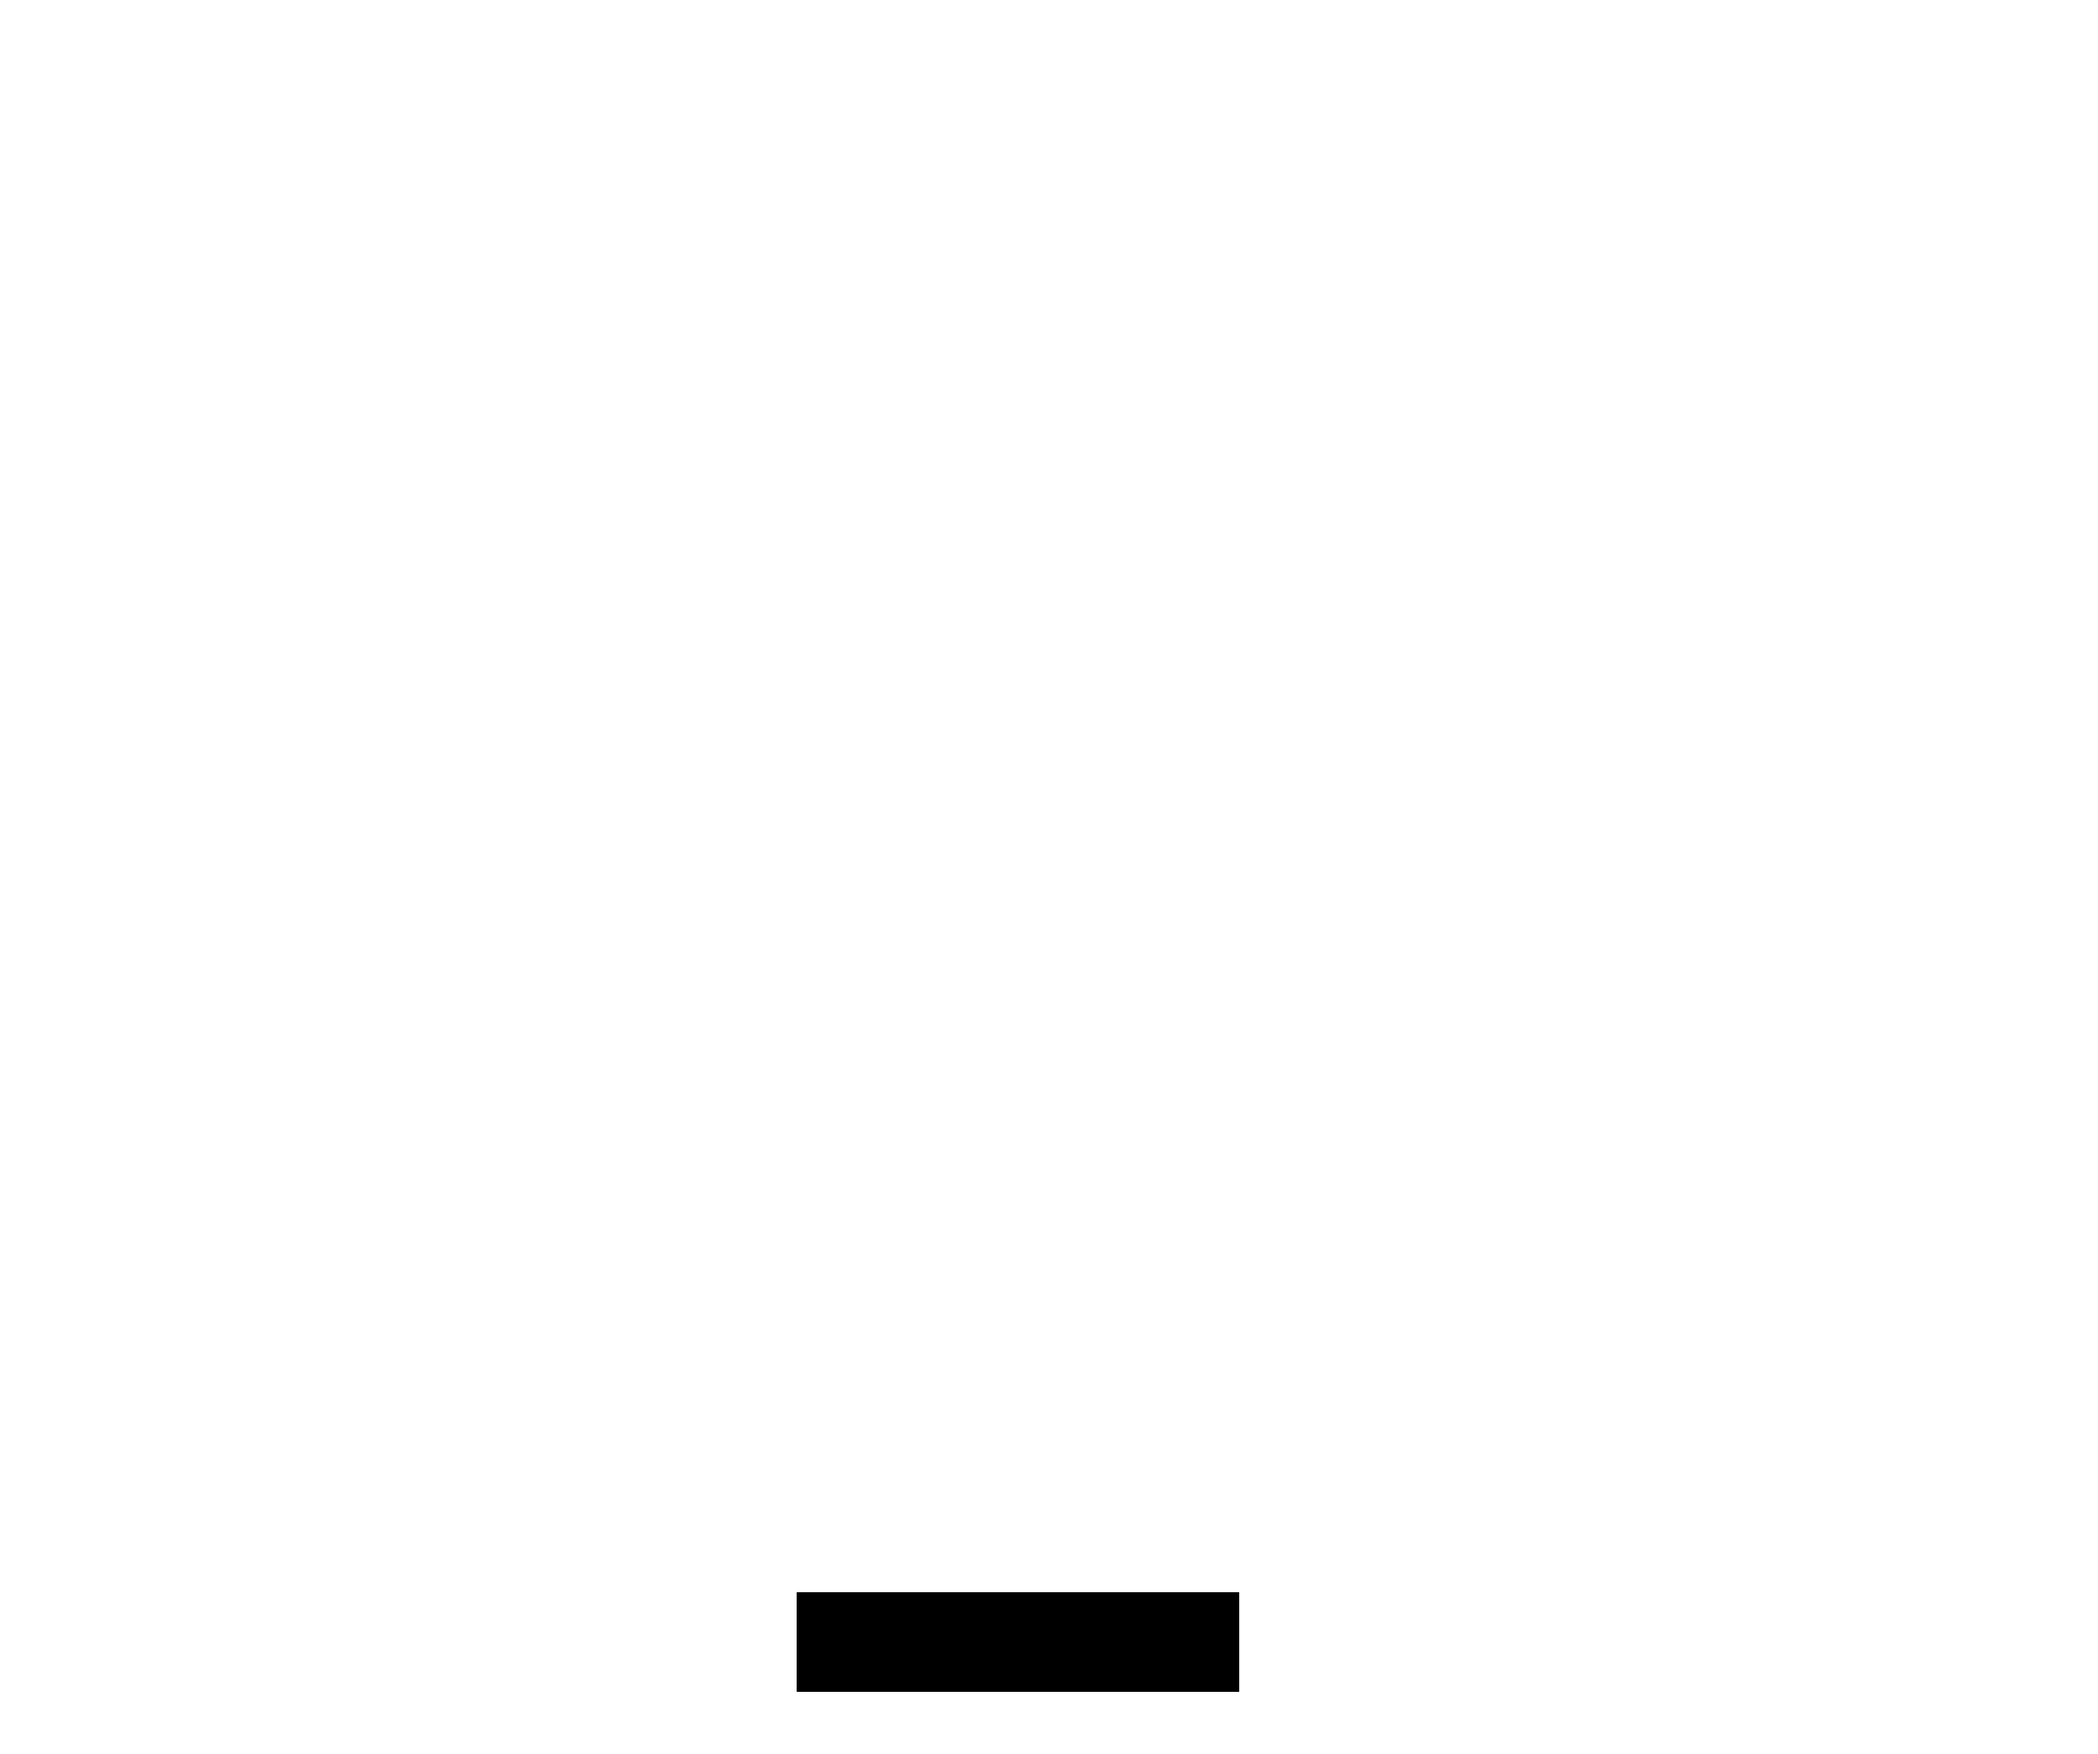
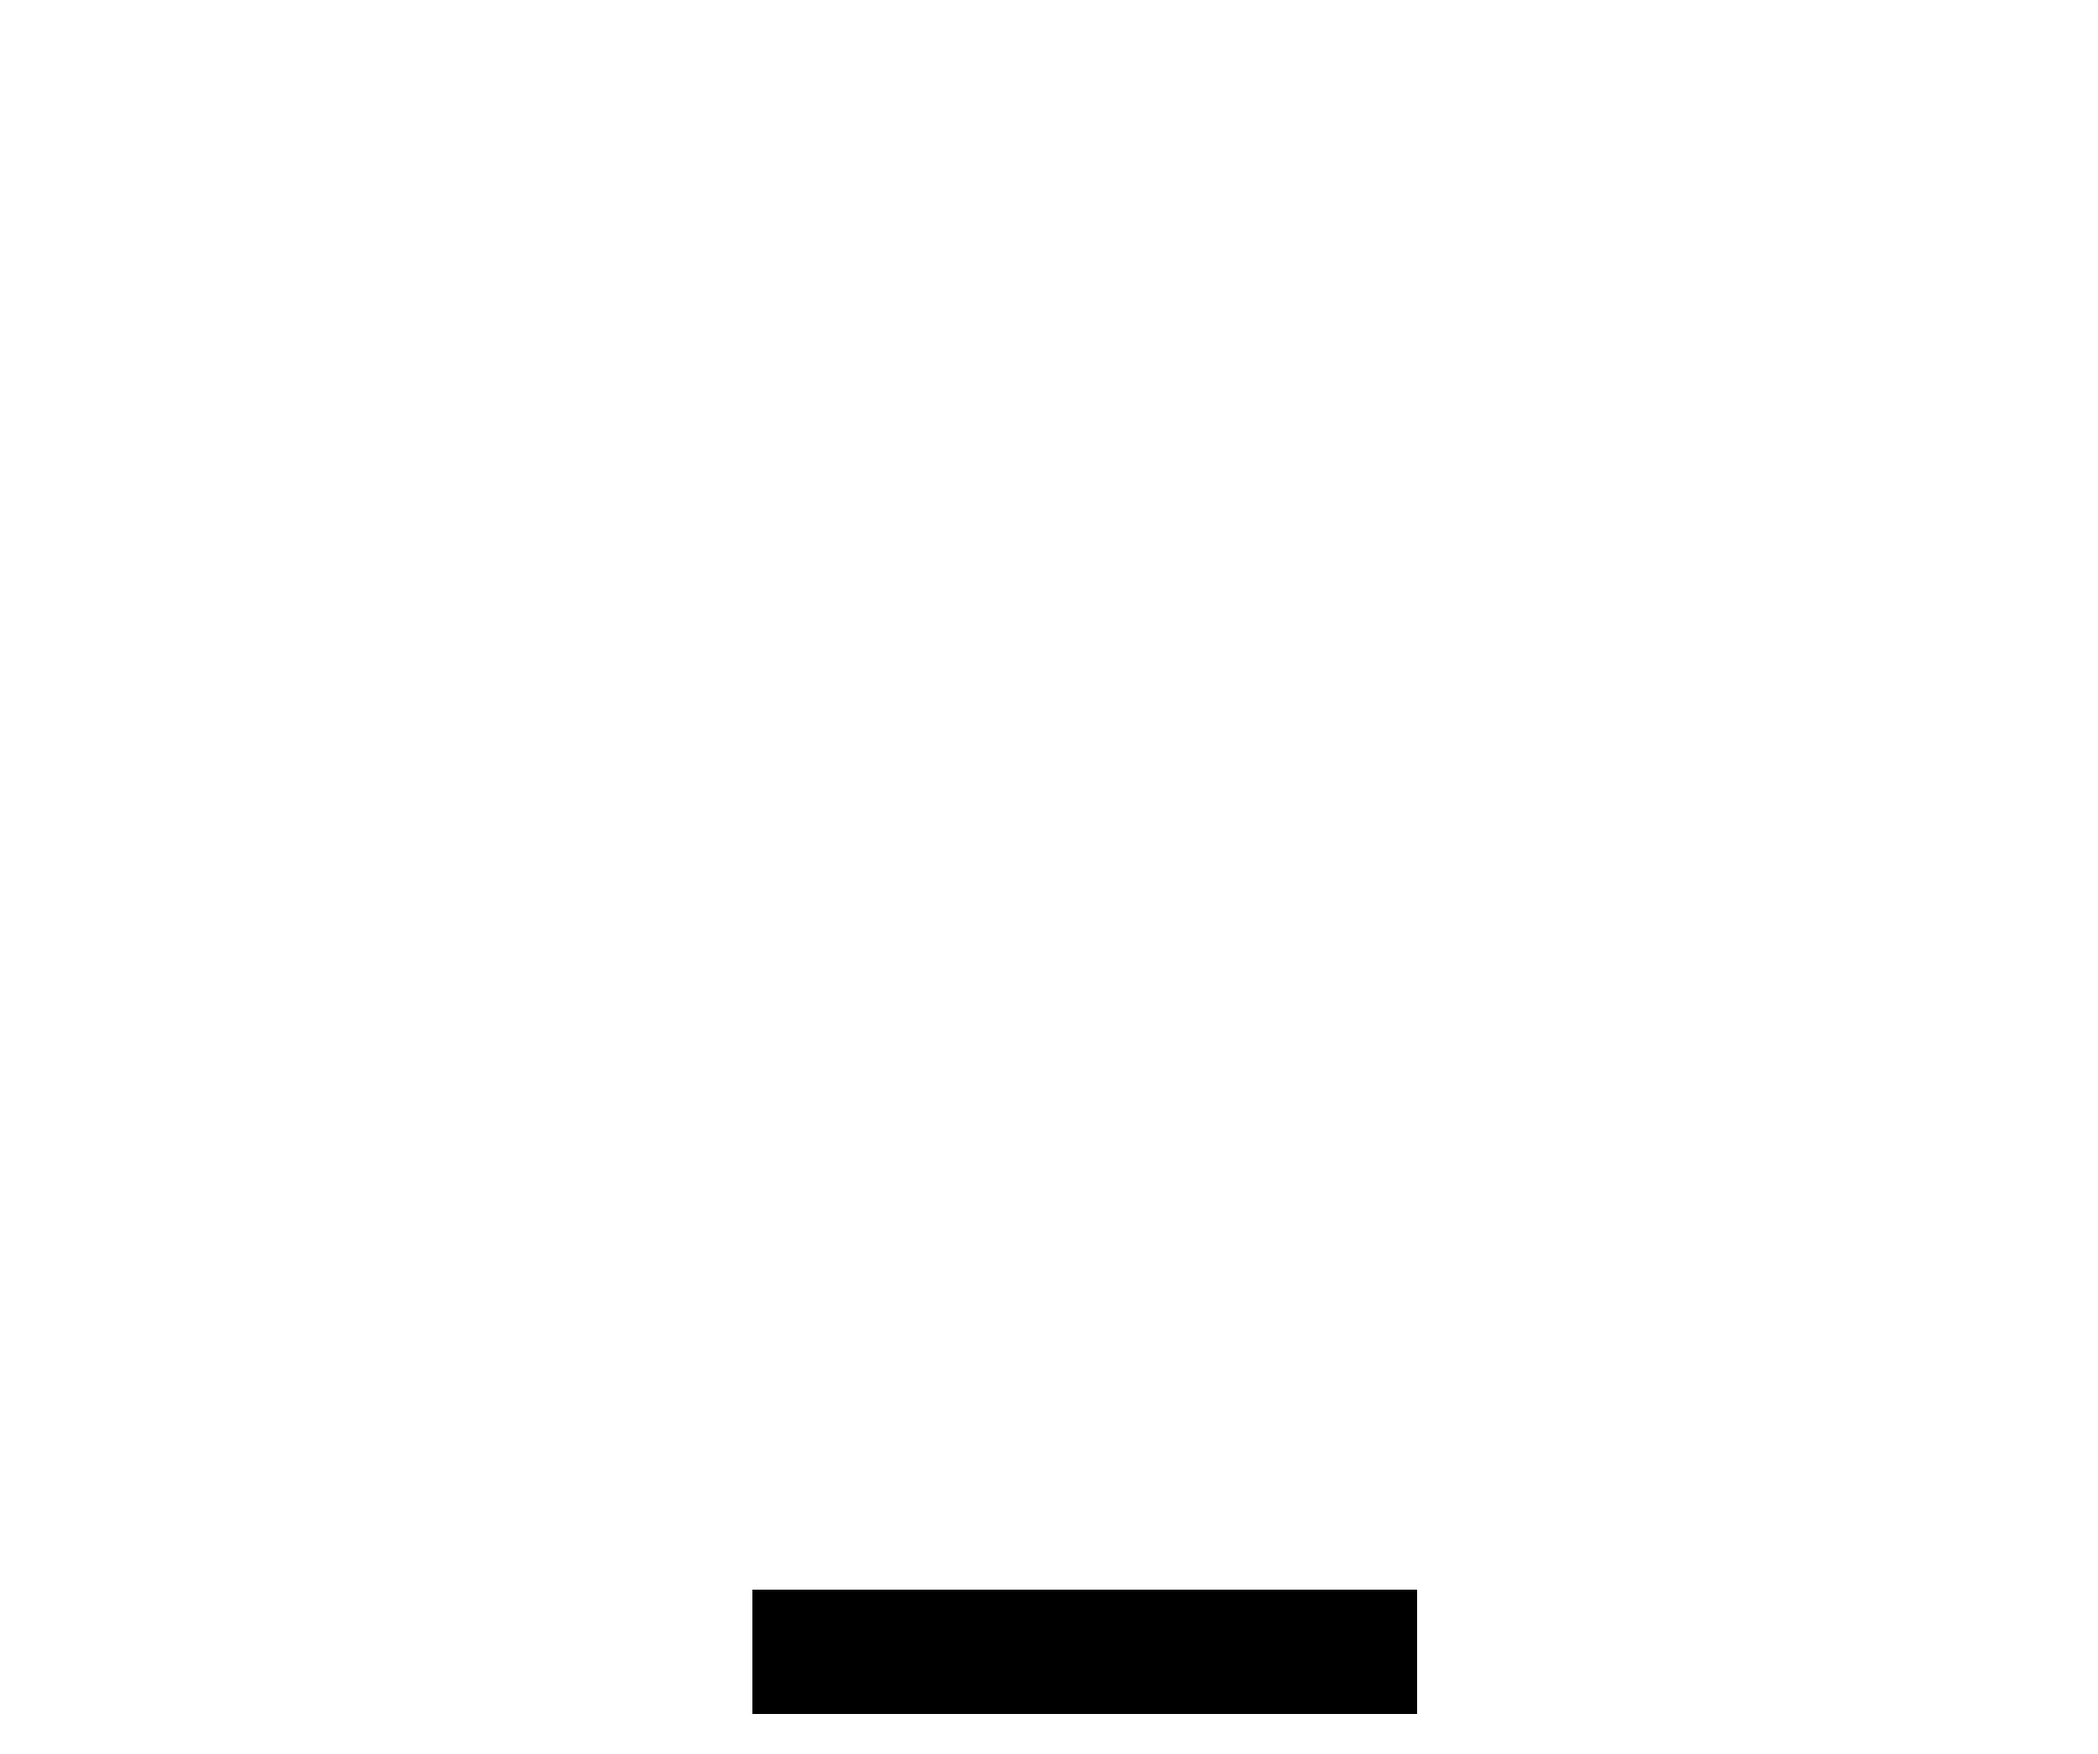
improvement in text removal

Changed region(s): [[0.3436, 0.901, 0.6872, 0.9942]]

diff --git a/week2/main.py b/week2/main.py
@@ -45,7 +45,7 @@ def text_removal_mask(img_gray, name, strel, strel_pd, num_cols, coords):
     max_a = round(min_a + num_cols)
     
     # Store pixel values in the analyzed area
-    values_t = np.zeros(max_a-min_a)
+    values_t = np.zeros(shape=(max_a-min_a, max_a-min_a))
     
     i = 0
     
@@ -56,53 +56,63 @@ def text_removal_mask(img_gray, name, strel, strel_pd, num_cols, coords):
         # Pixel values and number of ocurrences for the whole column
         values = pd.Series(col).value_counts().keys().tolist()
         
-        # Get highest pixel value (most frequent one)
-        values_t[i] = values[0]
-               
+        # Get highest pixel values (most frequent ones)
+        values_t[0:3,i] = values[0:3]
+
         i += 1
-    
-    level = round(np.mean(values_t))
-    
-    if level < 150:
-        final_img = cv.morphologyEx(img_gray, cv.MORPH_OPEN, strel)
-        mask = (final_img != level)
-        mask = mask.astype(np.uint8)
-        mask *= 255
-        mask = cv.bitwise_not(mask)
-    elif level > 150:
-        final_img = cv.morphologyEx(img_gray, cv.MORPH_CLOSE, strel)
-        #mask = (final_img >= level-3) * (final_img <= level+3)
-        #mask = cv.morphologyEx(np.uint8(mask), cv.MORPH_CLOSE, np.ones((60,60),np.uint8))
-        #mask = cv.morphologyEx(mask, cv.MORPH_OPEN, np.ones((60,60),np.uint8))
-        mask = (final_img == level)
-        mask = mask.astype(np.uint8)
-        mask *= 255
 
-    # Find contours of created mask
-    contours,_ = cv.findContours(mask, cv.RETR_EXTERNAL, cv.CHAIN_APPROX_NONE)
-    
-    # Find largest contour (it will contain the text bounding box)
-    contour_sizes = [(cv.contourArea(contour), contour) for contour in contours]
-    largest_contour = max(contour_sizes, key=lambda x: x[0])[1]
-    
-    # Find bounding box belonging to detected contour
-    (x,y,w,h) = cv.boundingRect(largest_contour)
+    j = 0
+    black_pixels = 0
+    while(black_pixels < 5000 and j < num_cols):
 
-    # Draw bounding boxes coordinates on original image to visualize it
-    cv.rectangle(img_gray, (x,y), (x+w,y+h), (0,255,0), 2)
-    
-    # Bboxes coordinates of the text positions
-    tlx = x
-    tly = y
-    brx = x + w
-    bry = y + h
-    
+        level = round(np.mean(values_t[j,:]))
+        
+        if level <= 150:
+            final_img = cv.morphologyEx(img_gray, cv.MORPH_OPEN, strel)
+            mask = (final_img != level)
+            mask = mask.astype(np.uint8)
+            mask *= 255
+            mask = cv.bitwise_not(mask)
+        elif level > 150:
+            final_img = cv.morphologyEx(img_gray, cv.MORPH_CLOSE, strel)
+            mask = (final_img >= level-3) * (final_img <= level+3)
+            #mask = cv.morphologyEx(np.uint8(mask), cv.MORPH_CLOSE, np.ones((60,60),np.uint8))
+            #mask = cv.morphologyEx(mask, cv.MORPH_OPEN, np.ones((60,60),np.uint8))
+            #mask = (final_img == level)
+            mask = mask.astype(np.uint8)
+            mask *= 255
+
+        # Find contours of created mask
+        contours,_ = cv.findContours(mask, cv.RETR_EXTERNAL, cv.CHAIN_APPROX_NONE)
+        
+        # Find largest contour (it will contain the text bounding box)
+        contour_sizes = [(cv.contourArea(contour), contour) for contour in contours]
+        largest_contour = max(contour_sizes, key=lambda x: x[0])[1]
+        
+        # Find bounding box belonging to detected contour
+        (x,y,w,h) = cv.boundingRect(largest_contour)
+
+        # Draw bounding boxes coordinates on original image to visualize it
+        cv.rectangle(img_gray, (x,y), (x+w,y+h), (0,255,0), 2)
+        
+        # Bboxes coordinates of the text positions
+        tlx = x
+        tly = y
+        brx = x + w
+        bry = y + h
+
+        # Extract bounding boxes pixels 
+        black_pixels = w*h
+
+        j+=1
+
     # Add bboxes coordinates to a list of lists
     coords.append([(tlx,tly,brx,bry)])
 
     # Create new mask with bboxes coordinates
     # Bboxes pixels are black (text), white otherwise (painting)
     f_mask[y:y + h, x:x + w] = 0
+
     cv.imwrite('results/'+ name + 'txtrmask.png', f_mask)
     
     return f_mask, coords
@@ -356,7 +366,7 @@ def main():
     strel_pd = np.ones((20,20),np.uint8)
     
     # Number of columns considered from the center of the image towards the right
-    num_cols = 6
+    num_cols = 10
     
     # List to store detected bounding boxes coordinates
     coords = []
